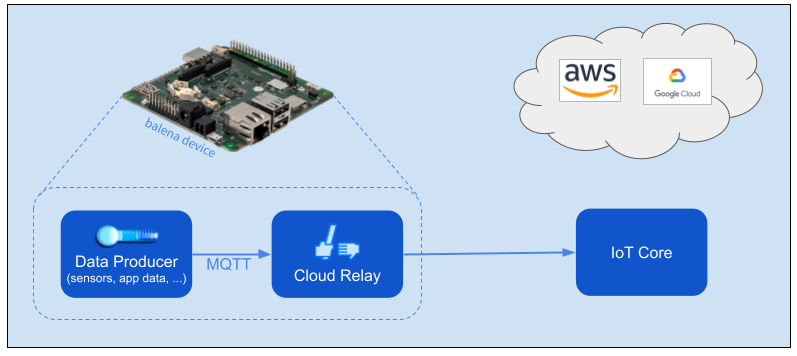
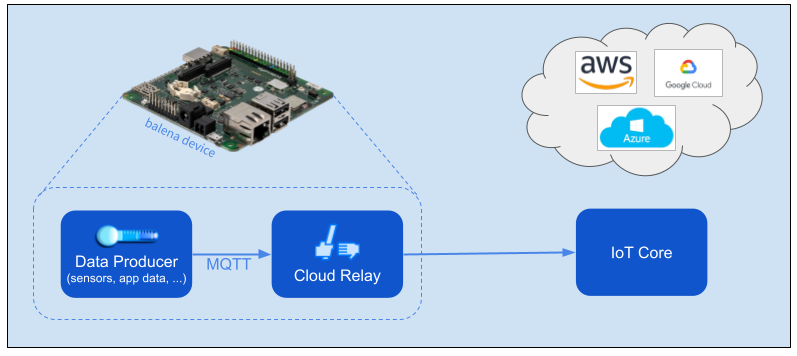
Add support for Azure IoT
Change-type: minor

Changed region(s): [[0.6324, 0.0618, 0.9636, 0.4944], [0.9335, 0.1236, 0.9636, 0.1545], [0.9034, 0.0927, 0.9335, 0.1236]]

diff --git a/lib/messenger.js b/lib/messenger.js
@@ -1,6 +1,8 @@
 import awsIot from 'aws-iot-device-sdk'
 import jwt from 'jsonwebtoken'
 import mqtt from 'async-mqtt'
+import azureIot from 'azure-iot-device'
+import { clientFromConnectionString } from 'azure-iot-device-mqtt'
 
 /**
  * Abstract superclass for cloud provider's IoT data messaging.
@@ -109,6 +111,63 @@ class AwsMessenger extends Messenger {
 
     toString() {
         return "AWS cloud messenger"
+    }
+}
+
+/** Messenger for MS Azure IoT. */
+class AzureMessenger extends Messenger {
+    connectSync() {
+        console.log(`Connecting to host ${process.env.AZURE_HUB_HOST}`)
+        //console.debug("connstr:", `HostName=${process.env.AZURE_HUB_HOST};DeviceId=${process.env.RESIN_DEVICE_UUID};x509=true`)
+        this.mqtt = clientFromConnectionString(
+            `HostName=${process.env.AZURE_HUB_HOST};DeviceId=${process.env.RESIN_DEVICE_UUID};x509=true`)
+        //console.debug("cert:", Buffer.from(process.env.AZURE_CERT, 'base64').toString())
+        //console.debug("private key:", Buffer.from(process.env.AZURE_PRIVATE_KEY, 'base64').toString())
+        const options = {
+           cert: Buffer.from(process.env.AZURE_CERT, 'base64').toString(),
+           key: Buffer.from(process.env.AZURE_PRIVATE_KEY, 'base64').toString()
+        }
+        this.mqtt.setOptions(options)
+
+        this.mqtt.open(function (err) {
+            if (err) {
+                console.warn("Cannot connect to Azure IoT:", err.toString())
+            } else {
+                console.log("Connected to Azure IoT messaging")
+            }
+        })
+    }
+
+    isRegistrationComplete() {
+        return process.env.AZURE_PRIVATE_KEY
+                && process.env.AZURE_CERT
+    }
+
+    isSyncConnect() {
+        return true
+    }
+
+    isUnregistered() {
+        return !process.env.AZURE_PRIVATE_KEY
+                && !process.env.AZURE_CERT
+    }
+
+    publish(topic, message) {
+        //console.debug(`Messenger pub: ${message.toString()}`)
+        let msg = new azureIot.Message(message)
+        msg.contentEncoding = 'utf-8'
+        msg.contentType = 'application/json'
+        msg.properties.add('topic', topic)
+        
+        this.mqtt.sendEvent(msg, function (err) {
+            if (err) {
+                console.warn("Error sending message:", err.toString())
+            }
+        })
+    }
+
+    toString() {
+        return "Azure cloud messenger"
     }
 }
 
@@ -257,6 +316,8 @@ Messenger.create = function(cloudProvider) {
     switch (cloudProvider) {
     case "AWS":
         return new AwsMessenger()
+    case "AZURE":
+        return new AzureMessenger()
     case "GCP":
         return new GcpMessenger()
     default:

diff --git a/index.js b/index.js
@@ -38,6 +38,7 @@ async function provision(uuid) {
     let bodyJson = null
     switch (process.env.CLOUD_PROVIDER) {
         case 'AWS':
+        case 'AZURE':
             bodyJson = `{ "uuid": "${uuid}", "method": "POST" }`
             break
         case 'GCP':
@@ -63,24 +64,32 @@ async function provision(uuid) {
         // vars yet and thus tried to provision again. So force Supervisor to update
         // and refresh environment variables. If successful, this service will
         // not attempt to provision on the next invocation.
-        if (process.env.CLOUD_PROVIDER == 'AWS') {
-            if (text == "thing already exists") {
-                console.warn("AWS thing already exists; updating environment vars")
-                updateEnvironmentVars()
-            }
-        } else if (process.env.CLOUD_PROVIDER == 'GCP') {
-            let respJson = {}
-            try {
-                respJson = JSON.parse(text)
-            } catch(e) {
-                // just use empty respJson
-            }
-            const alreadyExistsCode = 6
+        let alreadyExists = false
+        switch (process.env.CLOUD_PROVIDER) {
+            case 'AWS':
+                alreadyExists = (text == "thing already exists")
+                break
+            case 'AZURE':
+                alreadyExists = text.startsWith("DeviceAlreadyExistsError")
+                break
+            case 'GCP':
+                let respJson = {}
+                try {
+                    respJson = JSON.parse(text)
+                } catch(e) {
+                    // just use empty respJson
+                }
+                const alreadyExistsCode = 6
 
-            if (respJson.code && respJson.code == alreadyExistsCode) {
-                console.warn("GCP device already exists; updating environment vars")
-                updateEnvironmentVars()
-            }
+                alreadyExists = (respJson.code && respJson.code == alreadyExistsCode)
+                break
+            default:
+                // not possible at this point
+                break
+        }
+        if (alreadyExists) {
+            console.warn(`Device already exists on ${process.env.CLOUD_PROVIDER}; updating environment vars`)
+            updateEnvironmentVars()
         }
     }
     return response.ok

diff --git a/README.md b/README.md
@@ -4,11 +4,11 @@
 
 ![Overview](doc/overview.png)
 
-Cloud Relay accepts application data via MQTT and relays it to a cloud provider's IoT Core facility. You only need to provide the data, and Cloud Relay takes care of messaging with the cloud provider. Cloud Relay works with AWS IoT Core and Google Cloud (GCP) IoT Core.
+Cloud Relay accepts application data via MQTT and relays it to a cloud provider's IoT Core facility. You only need to provide the data, and Cloud Relay takes care of messaging with the cloud provider. Cloud Relay works with AWS IoT, Azure IoT, and Google Cloud (GCP) IoT.
 
 ## Getting Started
 
-You must install the Cloud Relay container on your device as well as set up the cloud provider's IoT service. Balena also provides cloud functions for AWS and Google Cloud that expose an HTTP endpoint to initially provision each device. See the _Cloud Provisioning_ section below.
+You must install the Cloud Relay container on your device as well as set up the cloud provider's IoT service. Balena also provides cloud functions for AWS, Azure and GCP that expose an HTTP endpoint to initially provision each device. See the _Cloud Provisioning_ section below.
 
 ### Device
 We will use the docker-compose [example script](docker-compose.yml), which provides WiFi metrics data. First create a multi-container fleet in balenaCloud and provision a device with balenaOS. See the [online docs](https://www.balena.io/docs/learn/getting-started/raspberrypi3/nodejs/) for details. Next define the fleet variables from the cloud provider's setup, as described in the *Configuration* section below. Finally push the docker-compose script to the balena builders, substituting your fleet's name for `<myFleet>` in the commands below.
@@ -38,6 +38,7 @@ We have developed projects that automate this provisioning, including use of the
 | Provider / Cloud Function | GitHub project |
 |----------|-------------------|
 | AWS Lambda | [aws-iot-provision](https://github.com/balena-io-examples/aws-iot-provision) |
+| Azure Functions | [azure-iot-provision](https://github.com/balena-io-examples/azure-iot-provision) |
 | GCP Cloud Functions | [gcp-iot-provision](https://github.com/balena-io-examples/gcp-iot-provision) |
 
 ## Configuration
@@ -46,10 +47,10 @@ Environment variables, probably common to all devices so may be defined as balen
 
 |  Name | Value | Notes |
 |-------|-------|-------|
-| CLOUD_PROVIDER | default `AWS`<br><br>or `GCP` | |
-|  PROVISION_URL   | AWS Lambda like<br>`https://xxxxxxxx.execute-api.<region>.amazonaws.com/default/provision`<br><br>GCP Cloud Functions like<br>`https://<region>-<projectID>.cloudfunctions.net/provision` | URL to trigger the provisioning cloud function. See the README for the cloud provisioning projects above for specifics.|
+| CLOUD_PROVIDER | default `AWS`<br><br>`AZURE` or `GCP` | |
+|  PROVISION_URL   | AWS Lambda like<br>`https://xxxxxxxx.execute-api.<region>.amazonaws.com/default/provision`<br><br>Azure Functions like<br>`https://<function-app>.azurewebsites.net/api/provision`<br><br>GCP Cloud Functions like<br>`https://<region>-<projectID>.cloudfunctions.net/provision` | URL to trigger the provisioning cloud function. See the README for the cloud provisioning projects above for specifics.|
 | PRODUCER_TOPIC| default `sensors` | Message topic from data producer |
-| CLOUD_CONSUMER_TOPIC| AWS default `sensors`<br><br>GCP default `events` | Message topic expected by cloud consumer. For GCP, `events` is the default *telemetry* topic. As the docs [describe](https://cloud.google.com/iot/docs/how-tos/mqtt-bridge#publishing_telemetry_events_to_additional_cloud_pubsub_topics), you also may publish to a subfolder like `events/alerts`. |
+| CLOUD_CONSUMER_TOPIC| AWS, Azure default `sensors`<br><br>GCP default `events` | Message topic expected by cloud consumer. For Azure `sensors` is the value for the `topic` entry in the `properties` map.<br><br>For GCP, `events` is the default *telemetry* topic. As the docs [describe](https://cloud.google.com/iot/docs/how-tos/mqtt-bridge#publishing_telemetry_events_to_additional_cloud_pubsub_topics), you also may publish to a subfolder like `events/alerts`. |
 
 **AWS** specific variables
 
@@ -58,6 +59,14 @@ Environment variables, probably common to all devices so may be defined as balen
 | AWS_DATA_ENDPOINT| like `xxxxxxxx-ats.iot.<region>.amazonaws.com                               ` | Host name to receive data. See *Settings* in the AWS IoT console. |
 
 The provisioning tool generates AWS_CERT and AWS_PRIVATE_KEY.
+
+**Azure** specific variables
+
+|  Name | Value | Notes |
+|-------|-------|-------|
+| AZURE_HUB_HOST | like `<iot-hub-name>.azure-devices.net` | Host name to receive data. See *Overview* for the IoT Hub in the Azure portal. |
+
+The provisioning tool generates AZURE_CERT and AZURE_PRIVATE_KEY.
 
 **GCP** specific variables
 
